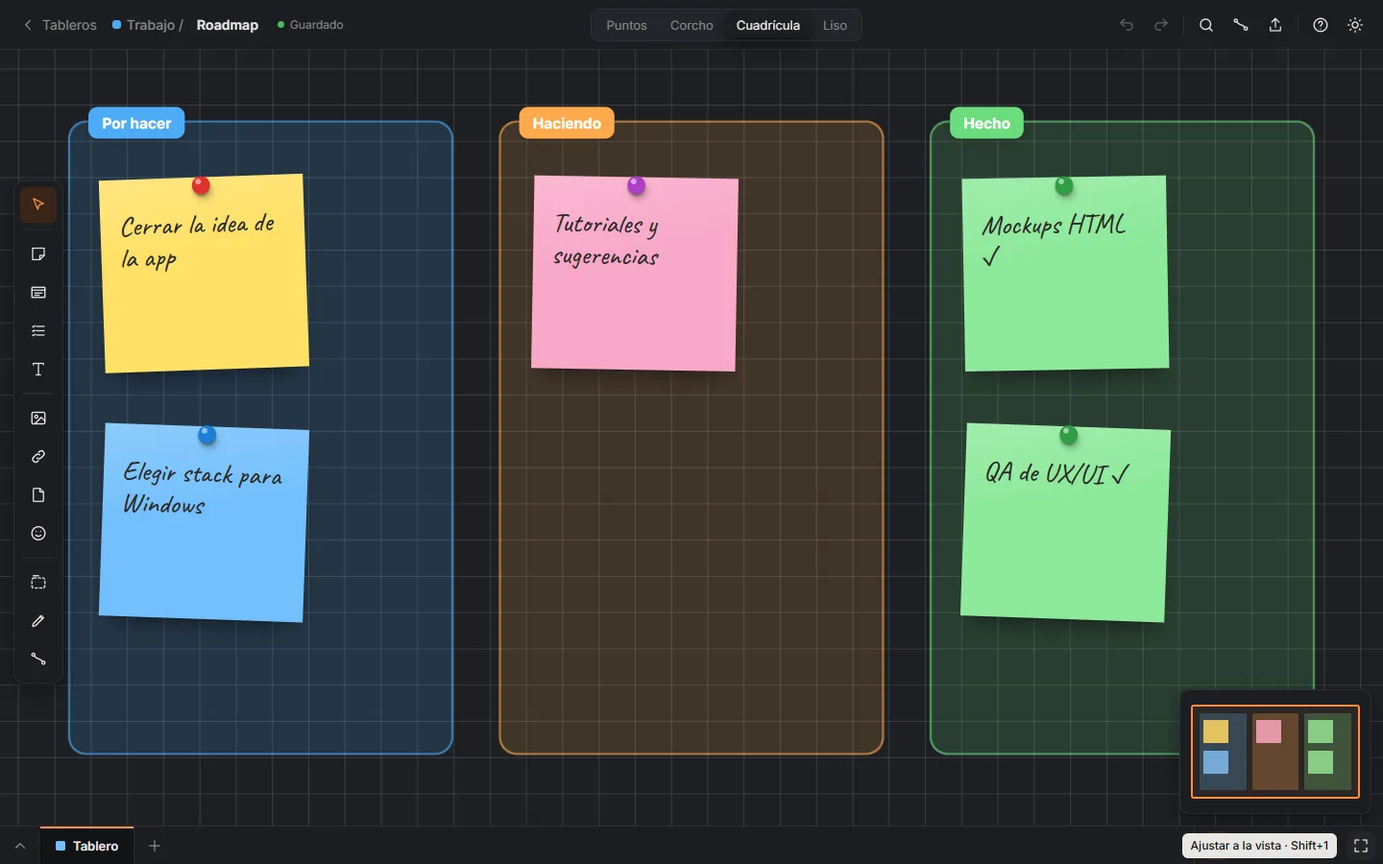
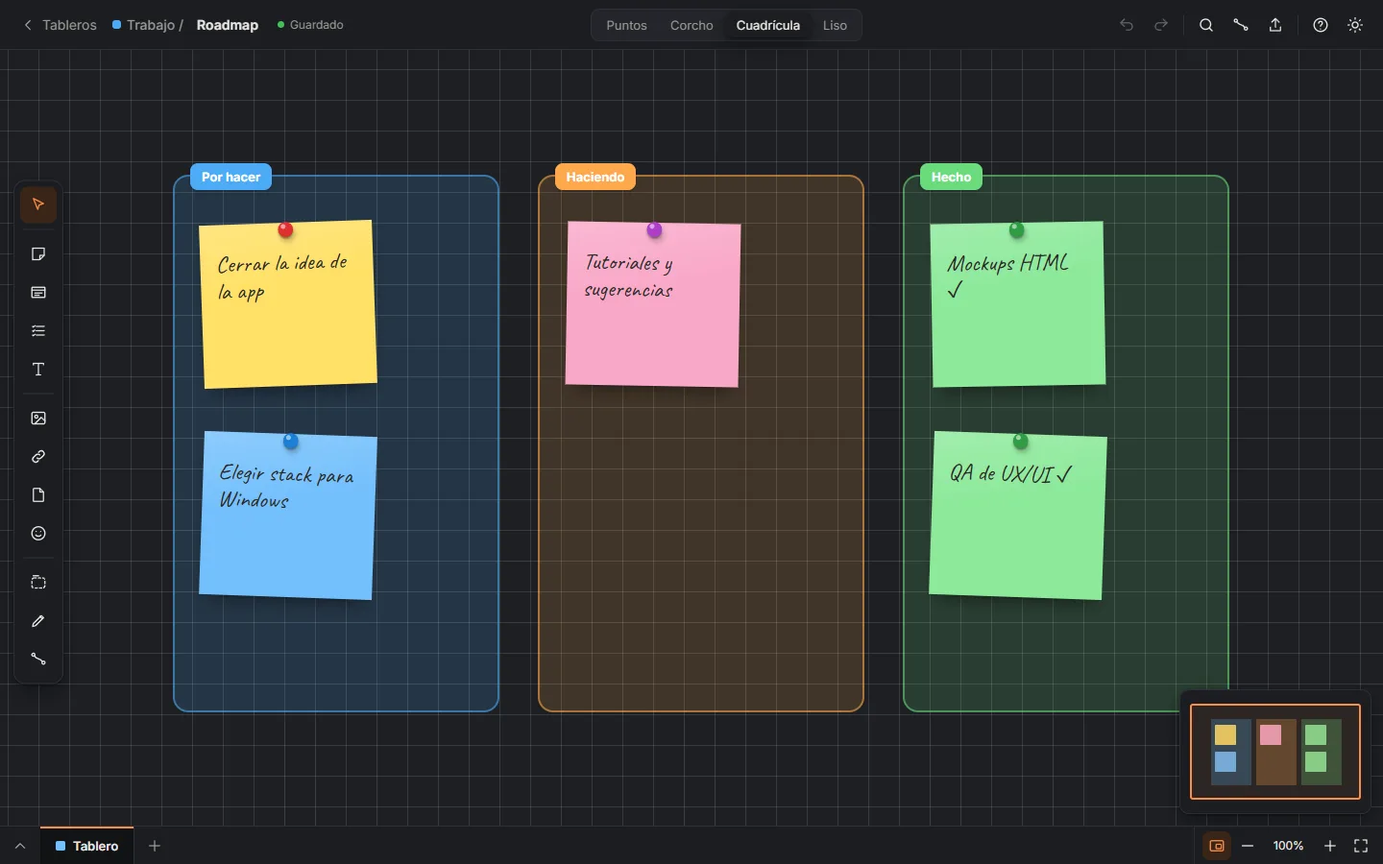
fix: contraste AA, capturas actualizadas y textos verificados en la web

diff --git a/web/index.html b/web/index.html
@@ -7,7 +7,10 @@
 <meta name="description" content="Chinchero es una app gratuita para Windows: pincha notas, fotos y stickers en un tablero, únelos con hilos y organiza tus ideas. Funciona sin conexión.">
 <meta property="og:title" content="Chinchero — Tu tablero de ideas digital">
 <meta property="og:description" content="Notas, fotos y stickers unidos con hilos, como en un tablero de verdad. Gratis para Windows.">
-<meta property="og:image" content="assets/screens/detective-dark.webp">
+<meta property="og:image" content="https://maxlezano.github.io/Chinchero/assets/screens/detective-dark.webp">
+<meta property="og:url" content="https://maxlezano.github.io/Chinchero/">
+<meta property="og:type" content="website">
+<meta name="twitter:card" content="summary_large_image">
 <link rel="icon" type="image/png" href="assets/favicon.png">
 <link rel="stylesheet" href="assets/fonts/fonts.css">
 <link rel="stylesheet" href="assets/site.css">
@@ -78,7 +81,7 @@
         <article class="feature reveal"><div class="fi" style="--c:#ebfbee">📑</div><h3>Tableros y hojas</h3><p>Organiza tableros en grupos y cada tablero en hojas, como pestañas de Excel.</p></article>
         <article class="feature reveal"><div class="fi" style="--c:#fff4e6">🔎</div><h3>Encuentra todo</h3><p>Ctrl+K busca cualquier nota, foto o lista en todas las hojas y salta directo a ella.</p></article>
         <article class="feature reveal"><div class="fi" style="--c:#f8f0e3">🌗</div><h3>Fondos, claro y oscuro</h3><p>Fondo de corcho, puntos o cuadrícula, en tema claro u oscuro. Tú eliges.</p></article>
-        <article class="feature reveal"><div class="fi" style="--c:#e6fcf5">↩</div><h3>Sin miedo a equivocarte</h3><p>Guardado automático, deshacer infinito y papelera durante 30 días.</p></article>
+        <article class="feature reveal"><div class="fi" style="--c:#e6fcf5">↩</div><h3>Sin miedo a equivocarte</h3><p>Guardado automático, deshacer y rehacer, copias de seguridad y papelera durante 30 días.</p></article>
         <article class="feature reveal"><div class="fi" style="--c:#fff0f6">🔒</div><h3>Tus datos son tuyos</h3><p>Sin cuentas ni nube obligatoria. Todo queda en una carpeta que puedes copiar donde quieras.</p></article>
       </div>
     </div>
@@ -114,23 +117,23 @@
   <section id="capturas">
     <div class="wrap">
       <div class="sec-head reveal"><div class="kicker">Así se ve</div><h2>Capturas reales de la app</h2><p>Cambia el tema arriba a la derecha para verlas en claro u oscuro.</p></div>
-      <div class="tabs" role="tablist">
-        <button class="tab" data-shot="editor">Tablero</button>
-        <button class="tab" data-shot="detective">Detective</button>
-        <button class="tab" data-shot="kanban">Kanban</button>
-        <button class="tab" data-shot="select">Edición</button>
-        <button class="tab" data-shot="search">Buscar</button>
-        <button class="tab" data-shot="boards">Tableros</button>
-        <button class="tab" data-shot="settings">Ajustes</button>
+      <div class="tabs" role="tablist" aria-label="Capturas">
+        <button class="tab" role="tab" data-shot="editor">Tablero</button>
+        <button class="tab" role="tab" data-shot="detective">Detective</button>
+        <button class="tab" role="tab" data-shot="kanban">Kanban</button>
+        <button class="tab" role="tab" data-shot="select">Edición</button>
+        <button class="tab" role="tab" data-shot="search">Buscar</button>
+        <button class="tab" role="tab" data-shot="boards">Tableros</button>
+        <button class="tab" role="tab" data-shot="settings">Ajustes</button>
       </div>
-      <figure class="shot reveal" style="margin:0"><div class="bar"><i></i><i></i><i></i><span>Chinchero</span></div><img id="shotImg" alt="" width="1440" height="900"></figure>
+      <figure class="shot reveal" style="margin:0"><div class="bar"><i></i><i></i><i></i><span>Chinchero</span></div><img id="shotImg" alt="" width="1440" height="900" role="tabpanel"></figure>
       <p class="shot-caption" id="shotCaption"></p>
     </div>
   </section>
 
   <section class="alt">
     <div class="wrap">
-      <div class="sec-head reveal"><div class="kicker">Para ir rápido</div><h2>Atajos que vas a usar todos los días</h2></div>
+      <div class="sec-head reveal"><div class="kicker">Para ir rápido</div><h2>Atajos que vas a usar todos los días</h2><p>Y si prefieres otros, los cambias en Ajustes → Atajos.</p></div>
       <div class="keys reveal">
         <div class="key">Nota nueva <kbd>N</kbd></div><div class="key">Tender hilo <kbd>L</kbd></div><div class="key">Buscar <kbd>Ctrl K</kbd></div><div class="key">Deshacer <kbd>Ctrl Z</kbd></div>
         <div class="key">Agrupar <kbd>Ctrl G</kbd></div><div class="key">Duplicar <kbd>Ctrl D</kbd></div><div class="key">Zoom <kbd>Rueda</kbd></div><div class="key">Encuadrar todo <kbd>Shift 1</kbd></div>
@@ -146,7 +149,7 @@
         <div>
           <div class="card reveal">
             <h3 style="margin-top:0">Requisitos</h3>
-            <ul class="req"><li>Windows 10 u 11 de 64 bits</li><li>Unos 300 MB libres</li><li>No necesita internet para usarla</li></ul>
+            <ul class="req"><li>Windows 10 u 11 de 64 bits</li><li>Unos 400 MB libres</li><li>No necesita internet para usarla</li></ul>
             <div class="callout"><b>¿Windows muestra un aviso al instalar?</b> Es normal en apps nuevas sin firma comercial: pulsa «Más información» → «Ejecutar de todas formas».</div>
           </div>
           <div class="card reveal" style="margin-top:22px">
@@ -164,7 +167,8 @@
       <div class="faq reveal">
         <details><summary>¿Es gratis?</summary><p>Sí, totalmente. Y el código es abierto: puedes verlo en GitHub.</p></details>
         <details><summary>¿Dónde se guardan mis tableros?</summary><p>En la carpeta Documentos\Chinchero (puedes cambiarla en Ajustes). Las imágenes que pinchas se copian ahí, así no se pierden aunque muevas los originales.</p></details>
-        <details><summary>¿Puedo pasar mis tableros a otra computadora?</summary><p>Sí: haz una copia de seguridad desde Ajustes → Datos (o copia la carpeta) y en el otro equipo elige «Abrir datos existentes».</p></details>
+        <details><summary>¿Puedo pasar mis tableros a otra computadora?</summary><p>Sí: en Ajustes → Datos haz una copia de seguridad (.zip) y en el otro equipo elige «Restaurar copia». También puedes copiar la carpeta entera y elegir «Abrir datos existentes».</p></details>
+        <details><summary>¿Puedo compartir un tablero?</summary><p>Sí: «Exportar tablero…» guarda un archivo .chinchero con sus imágenes, que la otra persona abre con doble clic. También puedes exportar una hoja como imagen PNG o PDF.</p></details>
         <details><summary>¿Cómo se actualiza?</summary><p>Chinchero busca versiones nuevas al abrirse, las descarga en segundo plano y las instala cuando la cierras. También puedes buscarlas a mano en Ajustes → Acerca de.</p></details>
         <details><summary>¿Hay versión para Mac o Linux?</summary><p>Por ahora solo Windows. Si te interesa otra plataforma, cuéntalo en GitHub.</p></details>
         <details><summary>Encontré un error o tengo una idea</summary><p>Abre un «issue» en el repositorio de GitHub. ¡Toda sugerencia suma!</p></details>

diff --git a/web/assets/site.css b/web/assets/site.css
@@ -3,14 +3,14 @@
   --font: "Inter", system-ui, "Segoe UI", sans-serif;
   --hand: "Caveat", "Segoe Print", cursive;
   --bg: #f6f3ee; --bg-2: #efeae2; --surface: #ffffff; --border: #e3ddd2;
-  --text: #22211f; --muted: #6f6a61; --accent: #e8590c; --accent-2: #ff8c42; --accent-soft: #fff0e6;
+  --text: #22211f; --muted: #66615a; --accent: #c2410c; --accent-2: #9a3412; --accent-soft: #fff0e6; --on-accent: #fff;
   --thread: #d6336c; --shadow: 0 1px 2px rgba(0,0,0,.06), 0 10px 30px rgba(0,0,0,.08);
   --note-yellow: #ffe066; --note-blue: #74c0fc; --note-pink: #f9a8c9; --note-green: #8ce99a; --note-purple: #d0bfff;
   --dot: rgba(40,35,25,.14);
 }
 :root[data-theme="dark"] {
   --bg: #111215; --bg-2: #17191d; --surface: #1c1e22; --border: #2c2e34;
-  --text: #ece9e3; --muted: #9a968e; --accent: #ff8c42; --accent-2: #ffa766; --accent-soft: #3a2618;
+  --text: #ece9e3; --muted: #9a968e; --accent: #ff8c42; --accent-2: #ffa766; --accent-soft: #3a2618; --on-accent: #1a1209;
   --thread: #ff6b8b; --shadow: 0 1px 2px rgba(0,0,0,.4), 0 14px 40px rgba(0,0,0,.4);
   --dot: rgba(255,255,255,.08);
 }
@@ -27,7 +27,7 @@ a { color: inherit; }
 /* Botones */
 .btn { display: inline-flex; align-items: center; gap: 10px; padding: 13px 20px; border-radius: 12px; border: 1px solid var(--border); background: var(--surface); color: var(--text); font: 600 15px var(--font); text-decoration: none; cursor: pointer; transition: transform .15s, box-shadow .15s, background .15s; }
 .btn:hover { transform: translateY(-1px); box-shadow: var(--shadow); }
-.btn-primary { background: var(--accent); border-color: var(--accent); color: #fff; box-shadow: 0 8px 24px color-mix(in srgb, var(--accent) 35%, transparent); }
+.btn-primary { background: var(--accent); border-color: var(--accent); color: var(--on-accent); box-shadow: 0 8px 24px color-mix(in srgb, var(--accent) 35%, transparent); }
 .btn-primary:hover { background: var(--accent-2); border-color: var(--accent-2); }
 .btn small { font-weight: 500; opacity: .85; }
 .btn svg { width: 20px; height: 20px; flex: none; }
@@ -178,7 +178,7 @@ kbd { font: 600 12px var(--font); background: var(--bg-2); border: 1px solid var
 .card { background: var(--surface); border: 1px solid var(--border); border-radius: 20px; padding: 28px; box-shadow: var(--shadow); }
 .latest .ver { display: flex; align-items: center; gap: 12px; flex-wrap: wrap; }
 .latest .ver h3 { margin: 0; font-size: 26px; }
-.badge { font-size: 12px; font-weight: 700; padding: 4px 10px; border-radius: 99px; background: #d3f9d8; color: #2b8a3e; }
+.badge { font-size: 12px; font-weight: 700; padding: 4px 10px; border-radius: 99px; background: #d3f9d8; color: #24733a; }
 :root[data-theme="dark"] .badge { background: #1f3b26; color: #8ce99a; }
 .latest .meta { color: var(--muted); font-size: 14px; margin: 6px 0 20px; }
 .notes { font-size: 15px; color: var(--text); border-top: 1px solid var(--border); margin-top: 22px; padding-top: 18px; }
@@ -186,11 +186,13 @@ kbd { font: 600 12px var(--font); background: var(--bg-2); border: 1px solid var
 .notes ul { margin: 6px 0; padding-left: 20px; }
 .notes p { margin: 6px 0; }
 .versions { list-style: none; margin: 0; padding: 0; }
-.versions li { border-bottom: 1px solid var(--border); }
-.versions li:last-child { border-bottom: 0; }
+.versions > li { border-bottom: 1px solid var(--border); }
+.versions > li:last-child { border-bottom: 0; }
 .versions details summary { display: flex; justify-content: space-between; gap: 10px; padding: 14px 4px; cursor: pointer; list-style: none; font-weight: 600; }
 .versions details summary::-webkit-details-marker { display: none; }
-.versions details summary small { color: var(--muted); font-weight: 500; }
+.versions details summary small { color: var(--muted); font-weight: 500; margin-left: auto; }
+.versions details summary::after { content: "+"; font-size: 20px; line-height: 1; color: var(--accent); transition: transform .2s; }
+.versions details[open] summary::after { transform: rotate(45deg); }
 .versions details[open] summary { color: var(--accent); }
 .versions .vbody { padding: 0 4px 16px; font-size: 14px; color: var(--muted); }
 .versions .vbody a.btn { padding: 8px 12px; font-size: 13px; margin-top: 8px; }
@@ -218,7 +220,7 @@ kbd { font: 600 12px var(--font); background: var(--bg-2); border: 1px solid var
 .final h2 { font: 700 clamp(34px, 4vw, 52px)/1.05 var(--hand); margin: 0 0 18px; }
 footer { border-top: 1px solid var(--border); padding: 30px 0; color: var(--muted); font-size: 14px; }
 footer .wrap { display: flex; justify-content: space-between; gap: 16px; flex-wrap: wrap; align-items: center; }
-footer a { color: var(--muted); }
+footer a { color: var(--muted); display: inline-block; padding: 4px 0; }
 
 /* Aparición al hacer scroll */
 .reveal { opacity: 0; transform: translateY(24px); transition: opacity .7s ease, transform .7s ease; }

diff --git a/web/assets/site.js b/web/assets/site.js
@@ -117,9 +117,23 @@ function showShot(key = currentShot) {
   next.onload = () => { img.src = next.src; img.alt = caption; img.style.opacity = 1; };
   next.src = `assets/screens/${file}-${theme}.webp`;
   $("#shotCaption").textContent = caption;
-  $$(".tab").forEach(t => t.classList.toggle("active", t.dataset.shot === key));
+  $$(".tab").forEach(t => {
+    const on = t.dataset.shot === key;
+    t.classList.toggle("active", on);
+    t.setAttribute("aria-selected", on);
+    t.tabIndex = on ? 0 : -1;
+  });
 }
 $(".tabs").onclick = e => { const t = e.target.closest(".tab"); if (t) showShot(t.dataset.shot); };
+// Pestañas con teclado: flechas, Inicio y Fin
+$(".tabs").onkeydown = e => {
+  const tabs = $$(".tab"), i = tabs.findIndex(t => t.dataset.shot === currentShot);
+  const j = { ArrowRight: i + 1, ArrowLeft: i - 1, Home: 0, End: tabs.length - 1 }[e.key];
+  if (j === undefined) return;
+  e.preventDefault();
+  const t = tabs[(j + tabs.length) % tabs.length];
+  showShot(t.dataset.shot); t.focus();
+};
 showShot();
 
 /* ---------- Descargas: releases públicas del repositorio ---------- */
@@ -161,7 +175,7 @@ async function fetchReleases() {
 function noReleases(msg) {
   $("#latest").innerHTML = `<div class="ver"><h3>Muy pronto</h3></div>
     <p class="meta">${msg}</p>
-    <a class="btn" href="${REPO_URL}/releases" target="_blank" rel="noopener">Ver releases en GitHub</a>`;
+    <a class="btn" href="${esc(REPO_URL)}/releases" target="_blank" rel="noopener">Ver releases en GitHub</a>`;
   $("#versions").innerHTML = '<li style="padding:14px 4px;color:var(--muted)">Aquí aparecerá el historial de versiones.</li>';
   $$(".dl-btn").forEach(b => { b.href = "#descargar"; $(".dl-ver", b).textContent = "Próximamente"; });
 }
@@ -172,17 +186,18 @@ fetchReleases().then(list => {
   if (!latest) return noReleases("Todavía no hay versiones publicadas. Vuelve en unos días.");
   const exe = installer(latest);
   const downloads = list.reduce((n, r) => n + r.assets.reduce((m, a) => m + (/\.exe$/i.test(a.name) ? a.download_count : 0), 0), 0);
-  const href = exe ? exe.browser_download_url : latest.html_url;
-  $$(".dl-btn").forEach(b => { b.href = href; $(".dl-ver", b).textContent = latest.tag_name; });
+  const href = esc(exe ? exe.browser_download_url : latest.html_url);
+  $$(".dl-btn").forEach(b => { b.href = exe ? exe.browser_download_url : latest.html_url; $(".dl-ver", b).textContent = latest.tag_name; });
   $("#latest").innerHTML = `
     <div class="ver"><h3>${esc(latest.name || latest.tag_name)}</h3><span class="badge">${latest.prerelease ? "Beta" : "Última versión"}</span></div>
     <p class="meta">Publicada el ${fmtDate(latest.published_at)}${exe ? ` · ${fmtSize(exe.size)}` : ""}${downloads ? ` · ${downloads.toLocaleString("es-AR")} descargas` : ""}</p>
     <a class="btn btn-primary" href="${href}">${ICON_WIN} Descargar instalador <small>${esc(latest.tag_name)}</small></a>
     <div class="notes">${md(latest.body) || "<p>Sin notas para esta versión.</p>"}</div>`;
-  $("#versions").innerHTML = list.map((r, i) => {
+  // Cerradas: las notas de la última ya se ven arriba
+  $("#versions").innerHTML = list.map(r => {
     const e = installer(r);
-    return `<li><details ${i === 0 ? "open" : ""}><summary>${esc(r.tag_name)}${r.prerelease ? " · beta" : ""} <small>${fmtDate(r.published_at)}</small></summary>
-      <div class="vbody">${md(r.body) || "<p>Sin notas.</p>"}${e ? `<a class="btn" href="${e.browser_download_url}">Descargar ${esc(r.tag_name)} · ${fmtSize(e.size)}</a>` : ""}</div></details></li>`;
+    return `<li><details><summary>${esc(r.tag_name)}${r.prerelease ? " · beta" : ""} <small>${fmtDate(r.published_at)}</small></summary>
+      <div class="vbody">${md(r.body) || "<p>Sin notas.</p>"}${e ? `<a class="btn" href="${esc(e.browser_download_url)}">Descargar ${esc(r.tag_name)} · ${fmtSize(e.size)}</a>` : ""}</div></details></li>`;
   }).join("");
 }).catch(() => noReleases("No pudimos consultar las versiones ahora mismo. Puedes verlas directamente en GitHub."));
 

diff --git a/app/tests/capturas-web.js b/app/tests/capturas-web.js
@@ -1,0 +1,59 @@
+const puppeteer = require("puppeteer-core");
+const path = require("path");
+
+// Regenera las capturas de la galería de la web (web/assets/screens/*-light|dark.webp) a 1440×900
+// con tableros de ejemplo. No es una prueba: correrla cuando cambie la interfaz.
+// Uso: node tests/capturas-web.js
+const BASE = require("url").pathToFileURL(path.join(__dirname, "..", "src", "renderer")).href + "/";
+const OUT = path.join(__dirname, "..", "..", "web", "assets", "screens");
+const sleep = ms => new Promise(r => setTimeout(r, ms));
+// El último que se crea es el primero en «Recientes»
+const BOARDS = [
+  ["detective", "Caso abierto", "ideas"], ["kanban", "Roadmap", "trabajo"], ["moodboard", "Moodboard", "ideas"],
+  ["viaje", "Viaje a Japón", "personal"], ["demo", "Ideas generales", "personal"],
+];
+
+(async () => {
+  const browser = await puppeteer.launch({ executablePath: process.env.EDGE_PATH || "C:/Program Files (x86)/Microsoft/Edge/Application/msedge.exe", headless: true });
+  try {
+    for (const theme of ["light", "dark"]) {
+      const page = await browser.newPage();
+      await page.setViewport({ width: 1440, height: 900 });
+      page.on("pageerror", e => console.log(`[${theme}] PAGEERROR: ${e.message}`));
+      await page.evaluateOnNewDocument(t => {
+        if (sessionStorage.getItem("init")) return;
+        sessionStorage.setItem("init", "1");
+        localStorage.clear(); localStorage.setItem("chinchero-theme", t);
+        localStorage.setItem("chinchero-tours", "off"); localStorage.setItem("chinchero-tips", "off");
+      }, theme);
+      const ids = {};
+      for (const [template, name, group] of BOARDS) {
+        await page.goto(BASE + "02-tablero.html?" + new URLSearchParams({ template, name, group }), { waitUntil: "networkidle0" });
+        ids[name] = await page.evaluate(n => Store.library().boards.find(b => b.name === n).id, name);
+      }
+      const shot = async (file, url, prep) => {
+        await page.goto(BASE + url, { waitUntil: "networkidle0" }); await sleep(500);
+        if (prep) { await prep(); await sleep(400); }
+        await page.screenshot({ path: path.join(OUT, `${file}-${theme}.webp`), type: "webp", quality: 82 });
+      };
+      const ed = name => "02-tablero.html?board=" + ids[name];
+      await shot("boards", "01-tableros.html?view=recent");
+      await shot("settings", "03-ajustes.html");
+      await shot("editor", ed("Ideas generales"));
+      await shot("editor-select", ed("Ideas generales"), async () => {
+        const b = await (await page.$("#items .t-photo")).boundingBox();
+        await page.mouse.click(b.x + b.width / 2, b.y + 20);
+      });
+      await shot("search", ed("Ideas generales"), async () => {
+        await page.keyboard.down("Control"); await page.keyboard.press("k"); await page.keyboard.up("Control");
+        await sleep(200); await page.keyboard.type("idea");
+      });
+      await shot("detective", ed("Caso abierto"));
+      await shot("kanban", ed("Roadmap"));
+      await page.close();
+    }
+  } finally {
+    await browser.close();
+  }
+  console.log("Capturas en " + OUT);
+})();

diff --git a/ROADMAP.md b/ROADMAP.md
@@ -17,12 +17,11 @@ Lista de tareas para avanzar de a una. Cada tarea se hace en una sesión de chat
 - Instalador NSIS verificado localmente (`npm run dist`).
 - Web estática en `web/` con animaciones, capturas reales y descargas leídas de la API de GitHub.
 - Sin dependencias de internet: fuentes incluidas en el proyecto.
-- Pruebas: `app/tests/e2e-ui.js` (104 casos de interfaz), `e2e-app.js` (38 casos con la app real; con `CHINCHERO_EXE` prueba la empaquetada), `carga.js` (10 casos de rendimiento con 500 elementos), `offline-fonts.js`. Recorrido de QA con capturas: `node tests/qa-capturas.js` → `app/tests/out/qa/`.
+- Pruebas: `app/tests/e2e-ui.js` (104 casos de interfaz), `e2e-app.js` (38 casos con la app real; con `CHINCHERO_EXE` prueba la empaquetada), `carga.js` (10 casos de rendimiento con 500 elementos), `offline-fonts.js`. Recorrido de QA con capturas: `node tests/qa-capturas.js` → `app/tests/out/qa/`. Capturas de la galería de la web: `node tests/capturas-web.js` (regenerarlas cuando cambie la interfaz).
 
 ## Pendientes
 
-### 1. QA de la web
-- Recorrer `web/` en escritorio y móvil, claro y oscuro: textos, enlaces, descargas (API de GitHub), capturas y animaciones; arreglar lo roto y anotar mejoras.
+No hay tareas numeradas pendientes; quedan los opcionales.
 
 ### Opcionales (sin orden)
 - Firma de código para evitar el aviso de SmartScreen (de pago: certificado OV/EV o Azure Trusted Signing).
@@ -51,3 +50,4 @@ Lista de tareas para avanzar de a una. Cada tarea se hace en una sesión de chat
 - **2026-10-26 · Accesibilidad**: región `aria-live` compartida (`announce()` en `ui.js`); el lienzo anuncia lo creado, movido (ratón y flechas, al terminar la ráfaga), eliminado, hilos, deshacer/rehacer, cambio de hoja y el elemento elegido con Tab («Nota «…», 2 de 5»); los toasts también se anuncian. Teclado: con el foco en un botón, Espacio/Enter/Tab/flechas/Supr hacen lo suyo (antes el editor los capturaba siempre y la barra no se podía usar); Enter en una herramienta (o en un sticker) crea en el centro de la vista; Tab recorre los elementos y pasado el último sale del lienzo; tecla Menú o Mayús+F10 abre el menú contextual; los menús se recorren con flechas/Inicio/Fin y Esc devuelve el foco; pestañas de hojas con flechas y F2; Ctrl+K, el visor, el modal de nuevo tablero y el panel de atajos retienen el foco (`trapFocus`) y lo devuelven al cerrar. El foco del lienzo es un elemento aparte (`#canvasFocus`): con `tabindex` en el viewport, el clic lo enfocaba y arrastrar con 500 elementos pasaba de p95 24 ms a 37 ms. Contraste AA (4,5:1) en ambos temas: acento claro `#c2410c`, grises secundarios más oscuros/claros, `--on-accent` (texto oscuro sobre el naranja en tema oscuro), `--accent-inv` para los toasts y `--danger`. 18 casos nuevos en `e2e-ui.js` (incluido el contraste de los tokens). Pendiente posible: los elementos del lienzo no son nodos accesibles (se eligen con Tab y se anuncian); crear dibujos y tender hilos sigue necesitando ratón.
 - **2026-10-26 · QA y revisión de UX/UI**: nuevo `tests/qa-capturas.js`: recorre bienvenida, tableros (y su modal y menú), ajustes, papelera y editor (Ctrl+K, atajos, menú, selección) en claro/oscuro a 1000×640, 1440×900 y 1920×1080, más la web en escritorio y móvil; marca textos desbordados, scroll horizontal y errores de consola (no encontró ninguno). Bugs reportados: el nombre de la foto se recorta con «…» dentro del marco (al editarlo se ve entero en varias líneas); también se cortan las URL largas de enlaces, títulos de zona y palabras largas en listas. **Goma** en el panel de dibujo (tecla **E**): «Borrar partes» corta los trazos por donde pasa y «Trazos enteros» los quita; un dibujo sin trazos desaparece, se deshace con Ctrl+Z y el recuadro se ajusta a lo que queda. **Atajos personalizables** (`assets/keys.js`, preferencia `keys`): en Ajustes → Atajos cada atajo es un botón que espera la nueva combinación; avisa si ya la usa otra acción (y la deja sin atajo), rechaza las fijas (Ctrl+C/X/V, Supr, flechas, Tab…), Supr deja sin atajo, ↺ restablece uno y «Restablecer todos» vuelve a los originales; el editor, Tableros, el panel «?», los menús, Ctrl+K, las pistas de la barra y el tutorial muestran los atajos actuales. Arreglos pequeños: filas de los menús contextuales con la misma altura (las que tenían atajo eran más altas), plantillas del modal en 3 columnas alineadas (antes «Viaje» quedaba sola), botones deshabilitados con aspecto apagado («Vaciar papelera» vacía), «Buscar actualizaciones» en una línea, minimapa más pequeño en ventanas bajas. Web: «corcho» → «tablero» en títulos y textos; en móvil las capturas de la app salían recortadas (el `<img>` quedaba con 900 px de alto) y el tablero animado del inicio se amontonaba (la etiqueta «Escapada» cortada y la lista fuera del marco); en escritorio la lista ya no pisa la foto. 17 casos nuevos en `e2e-ui.js`. Lo grande quedó como tarea 1 de «Pendientes».
 - **2026-10-26 · Pulido de pantallas anchas y vistas previas**: **Ajustes** desde 1280 px pone las secciones en un índice fijo a la izquierda y el contenido (hasta 860 px) centrado; el índice marca la sección que se está viendo al desplazarse (`aria-current`), también en ventanas estrechas. **Tableros** desde 1600 px usa tarjetas de 300 px como mínimo y la miniatura mantiene la proporción 5:3 al crecer. **Miniaturas**: las fichas, listas, enlaces y archivos salían como píldoras porque `.pv.card` heredaba el estilo de la tarjeta del tablero (`.card`); ahora son papel blanco con renglones (`.pv.paper`). Los sellos son píldoras de su color con borde blanco y ancho según el texto, las chinches van donde están en el elemento y se dibujan los **hilos** (misma curva que en el editor) con sus chinches, en `previewThreads` (las tarjetas existentes los muestran al guardar el tablero de nuevo). **Textos**: bienvenida, «Acerca de», la nota de la demo y `package.json` dicen «tablero de ideas digital». **Goma**: los dibujos de plantillas antiguas (solo `d`) se pasan a puntos con `getPointAtLength` al tocarlos, así «Borrar partes» los corta en vez de quitarlos enteros. 9 casos nuevos en `e2e-ui.js`. No se hizo la fila «Continuar donde lo dejaste» (con pocos tableros repetía las mismas tarjetas). Al correr `npm test` completo, la prueba de arrastre de `carga.js` y dos toasts de `e2e-app.js` fallan a veces por tiempo; por separado pasan.
+- **2026-10-26 · QA de la web**: recorrida en 1920, 1440, 1024, 768, 390 y 360 px, claro y oscuro, con la API real (v0.2.0, 5 versiones, enlaces al `.exe` correctos): sin errores de consola, scroll horizontal, textos desbordados, anclas ni imágenes rotas; la animación del inicio y las demos de «Cómo se usa» se ven bien en escritorio y móvil. Arreglos: el naranja no pasaba AA (blanco sobre `#e8590c` 3,6:1, títulos 3:1, en oscuro blanco sobre `#ff8c42` 2,3:1): ahora usa los mismos tokens que la app (`#c2410c`, `--on-accent` oscuro en tema oscuro), gris secundario y la etiqueta «Última versión» más oscuros. En «Todas las versiones» las viñetas de las notas heredaban los separadores de la lista y la primera venía abierta repitiendo las notas de arriba: ahora todas cerradas, con un «+» como las preguntas. **Capturas de la galería regeneradas** con el nuevo `tests/capturas-web.js` (eran del 24/10: Ajustes sin índice lateral, acento viejo, miniaturas viejas). Textos verificados contra la app: «deshacer infinito» → «deshacer y rehacer, copias de seguridad» (el historial guarda 200 pasos), requisitos «Unos 400 MB» (instalada ocupa ~360 MB), la pregunta de pasar a otra computadora usa «Restaurar copia» y hay una nueva sobre compartir tableros (`.chinchero`, PNG, PDF), y los atajos dicen que se cambian en Ajustes. Pestañas de capturas con `role="tab"`, `aria-selected` y flechas/Inicio/Fin; `og:image` con URL absoluta más `og:url` y `twitter:card`; URLs de la API escapadas; el enlace GitHub del pie con área táctil más alta. Mejoras anotadas: `og:image` es `.webp` (algunas redes prefieren PNG/JPG); la web no menciona exportar ni compartir en «Funciones» (solo en preguntas).
